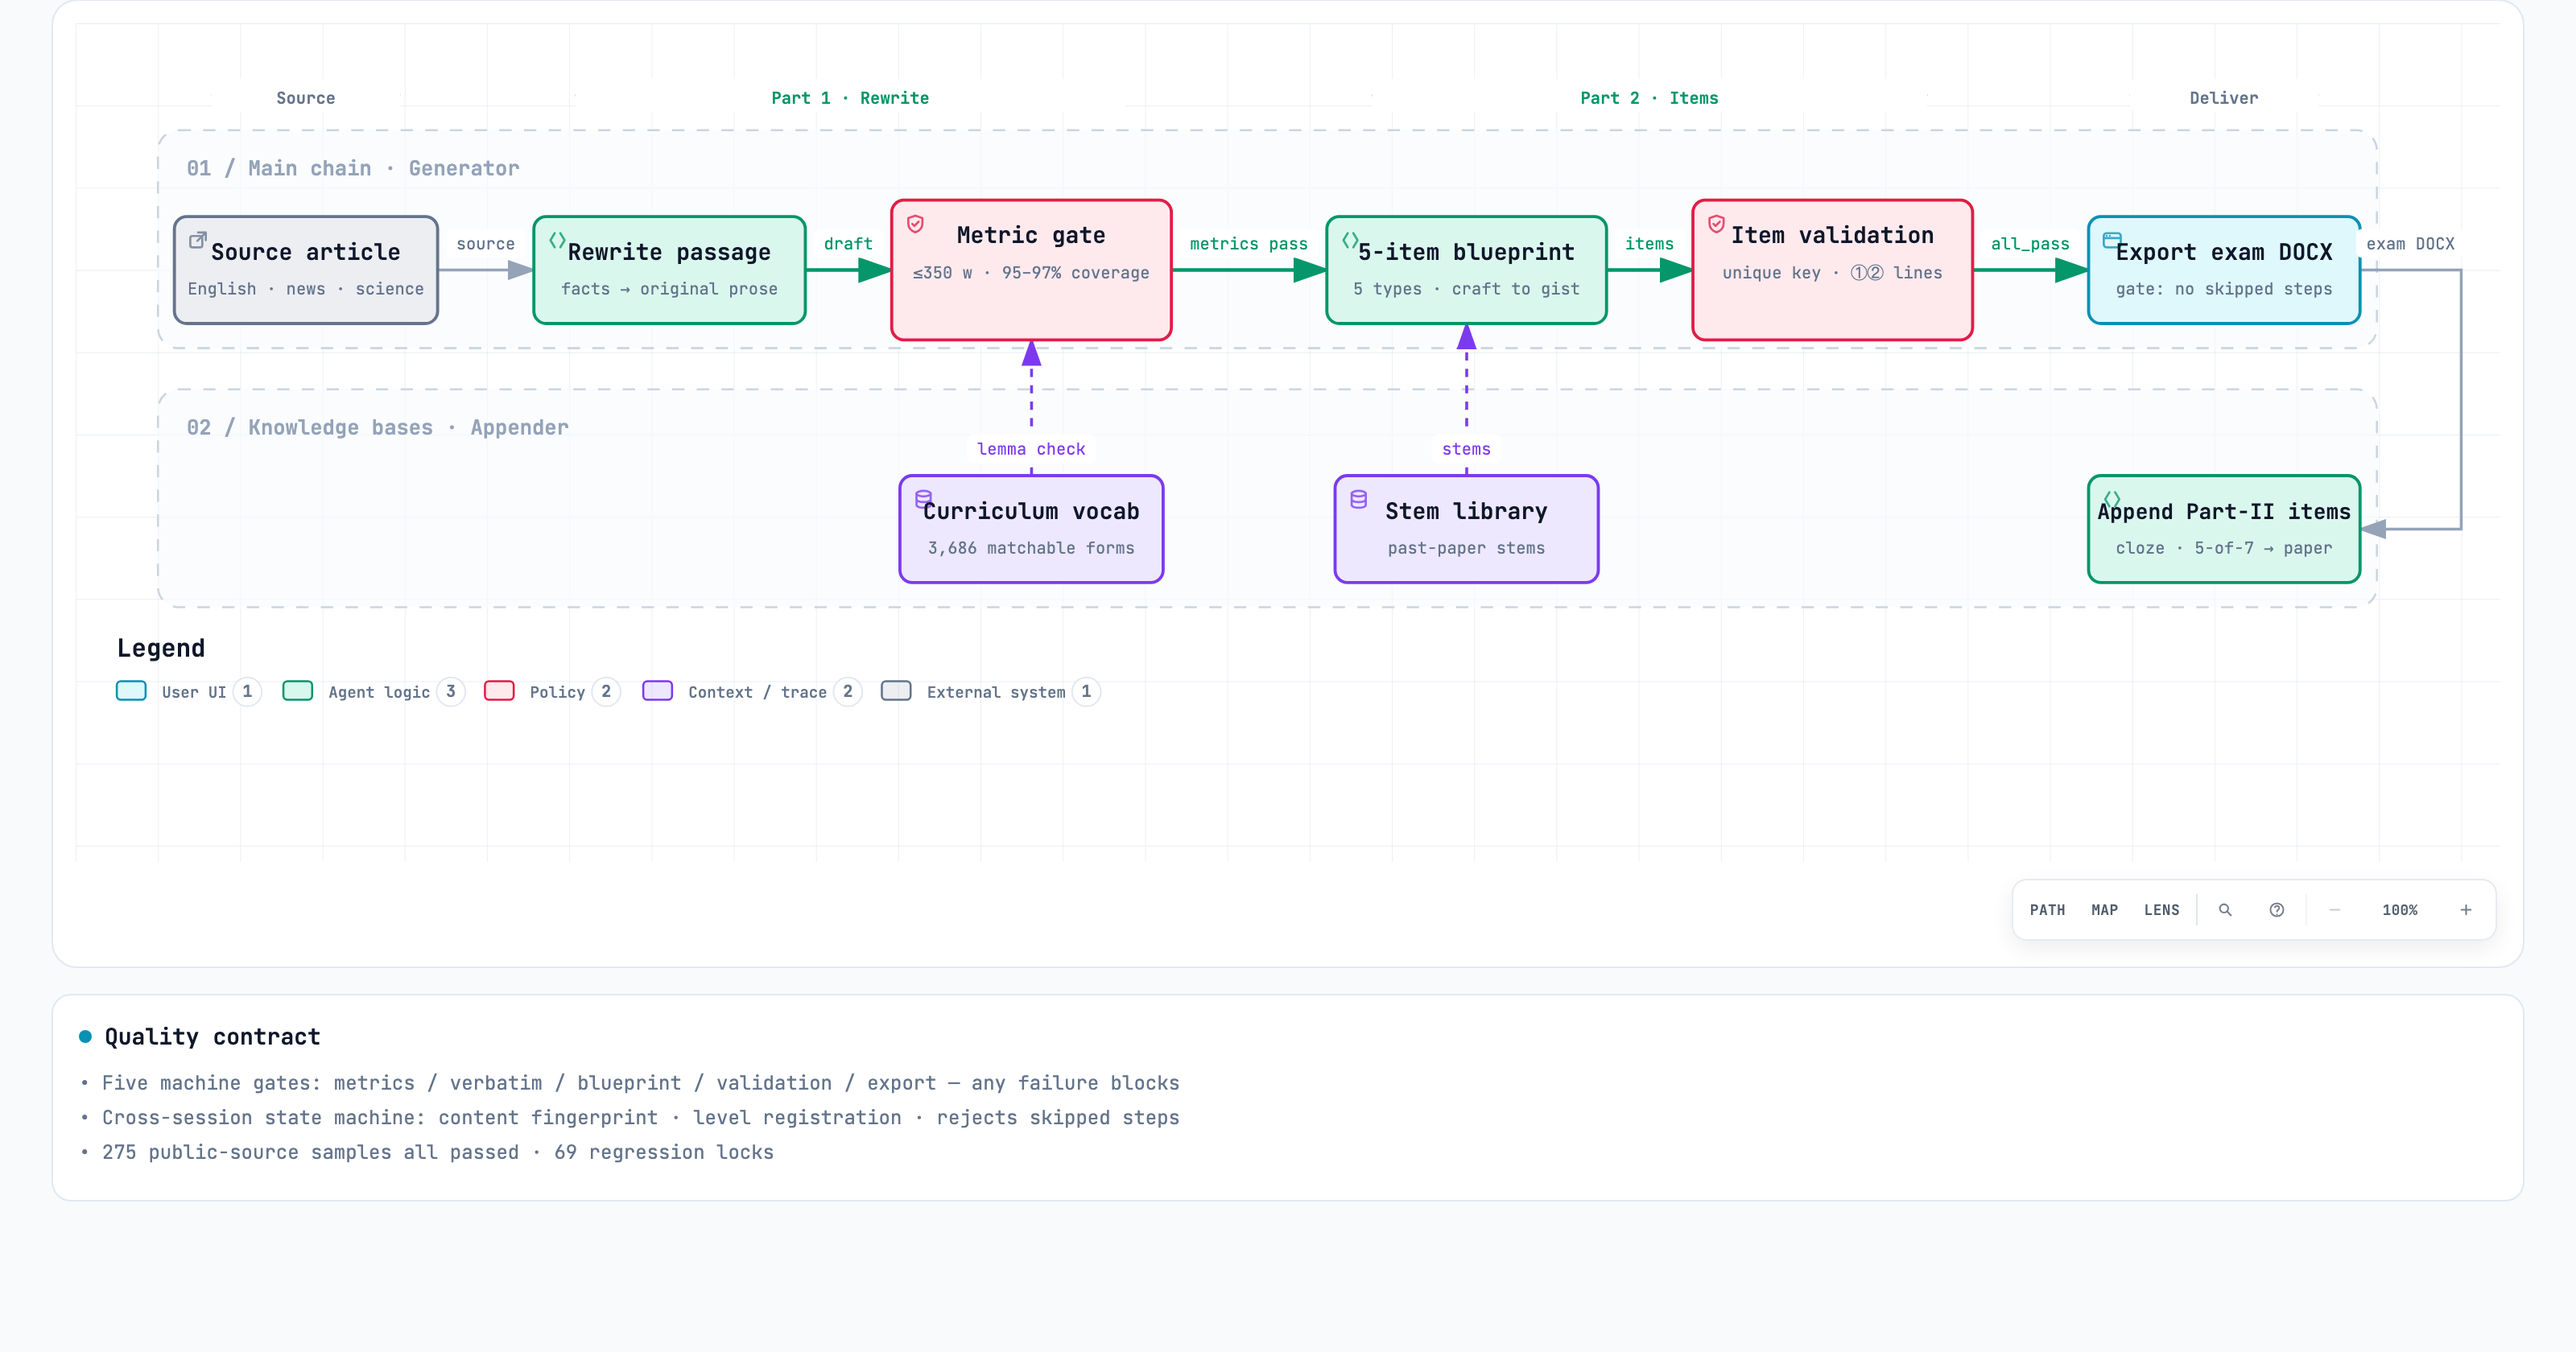
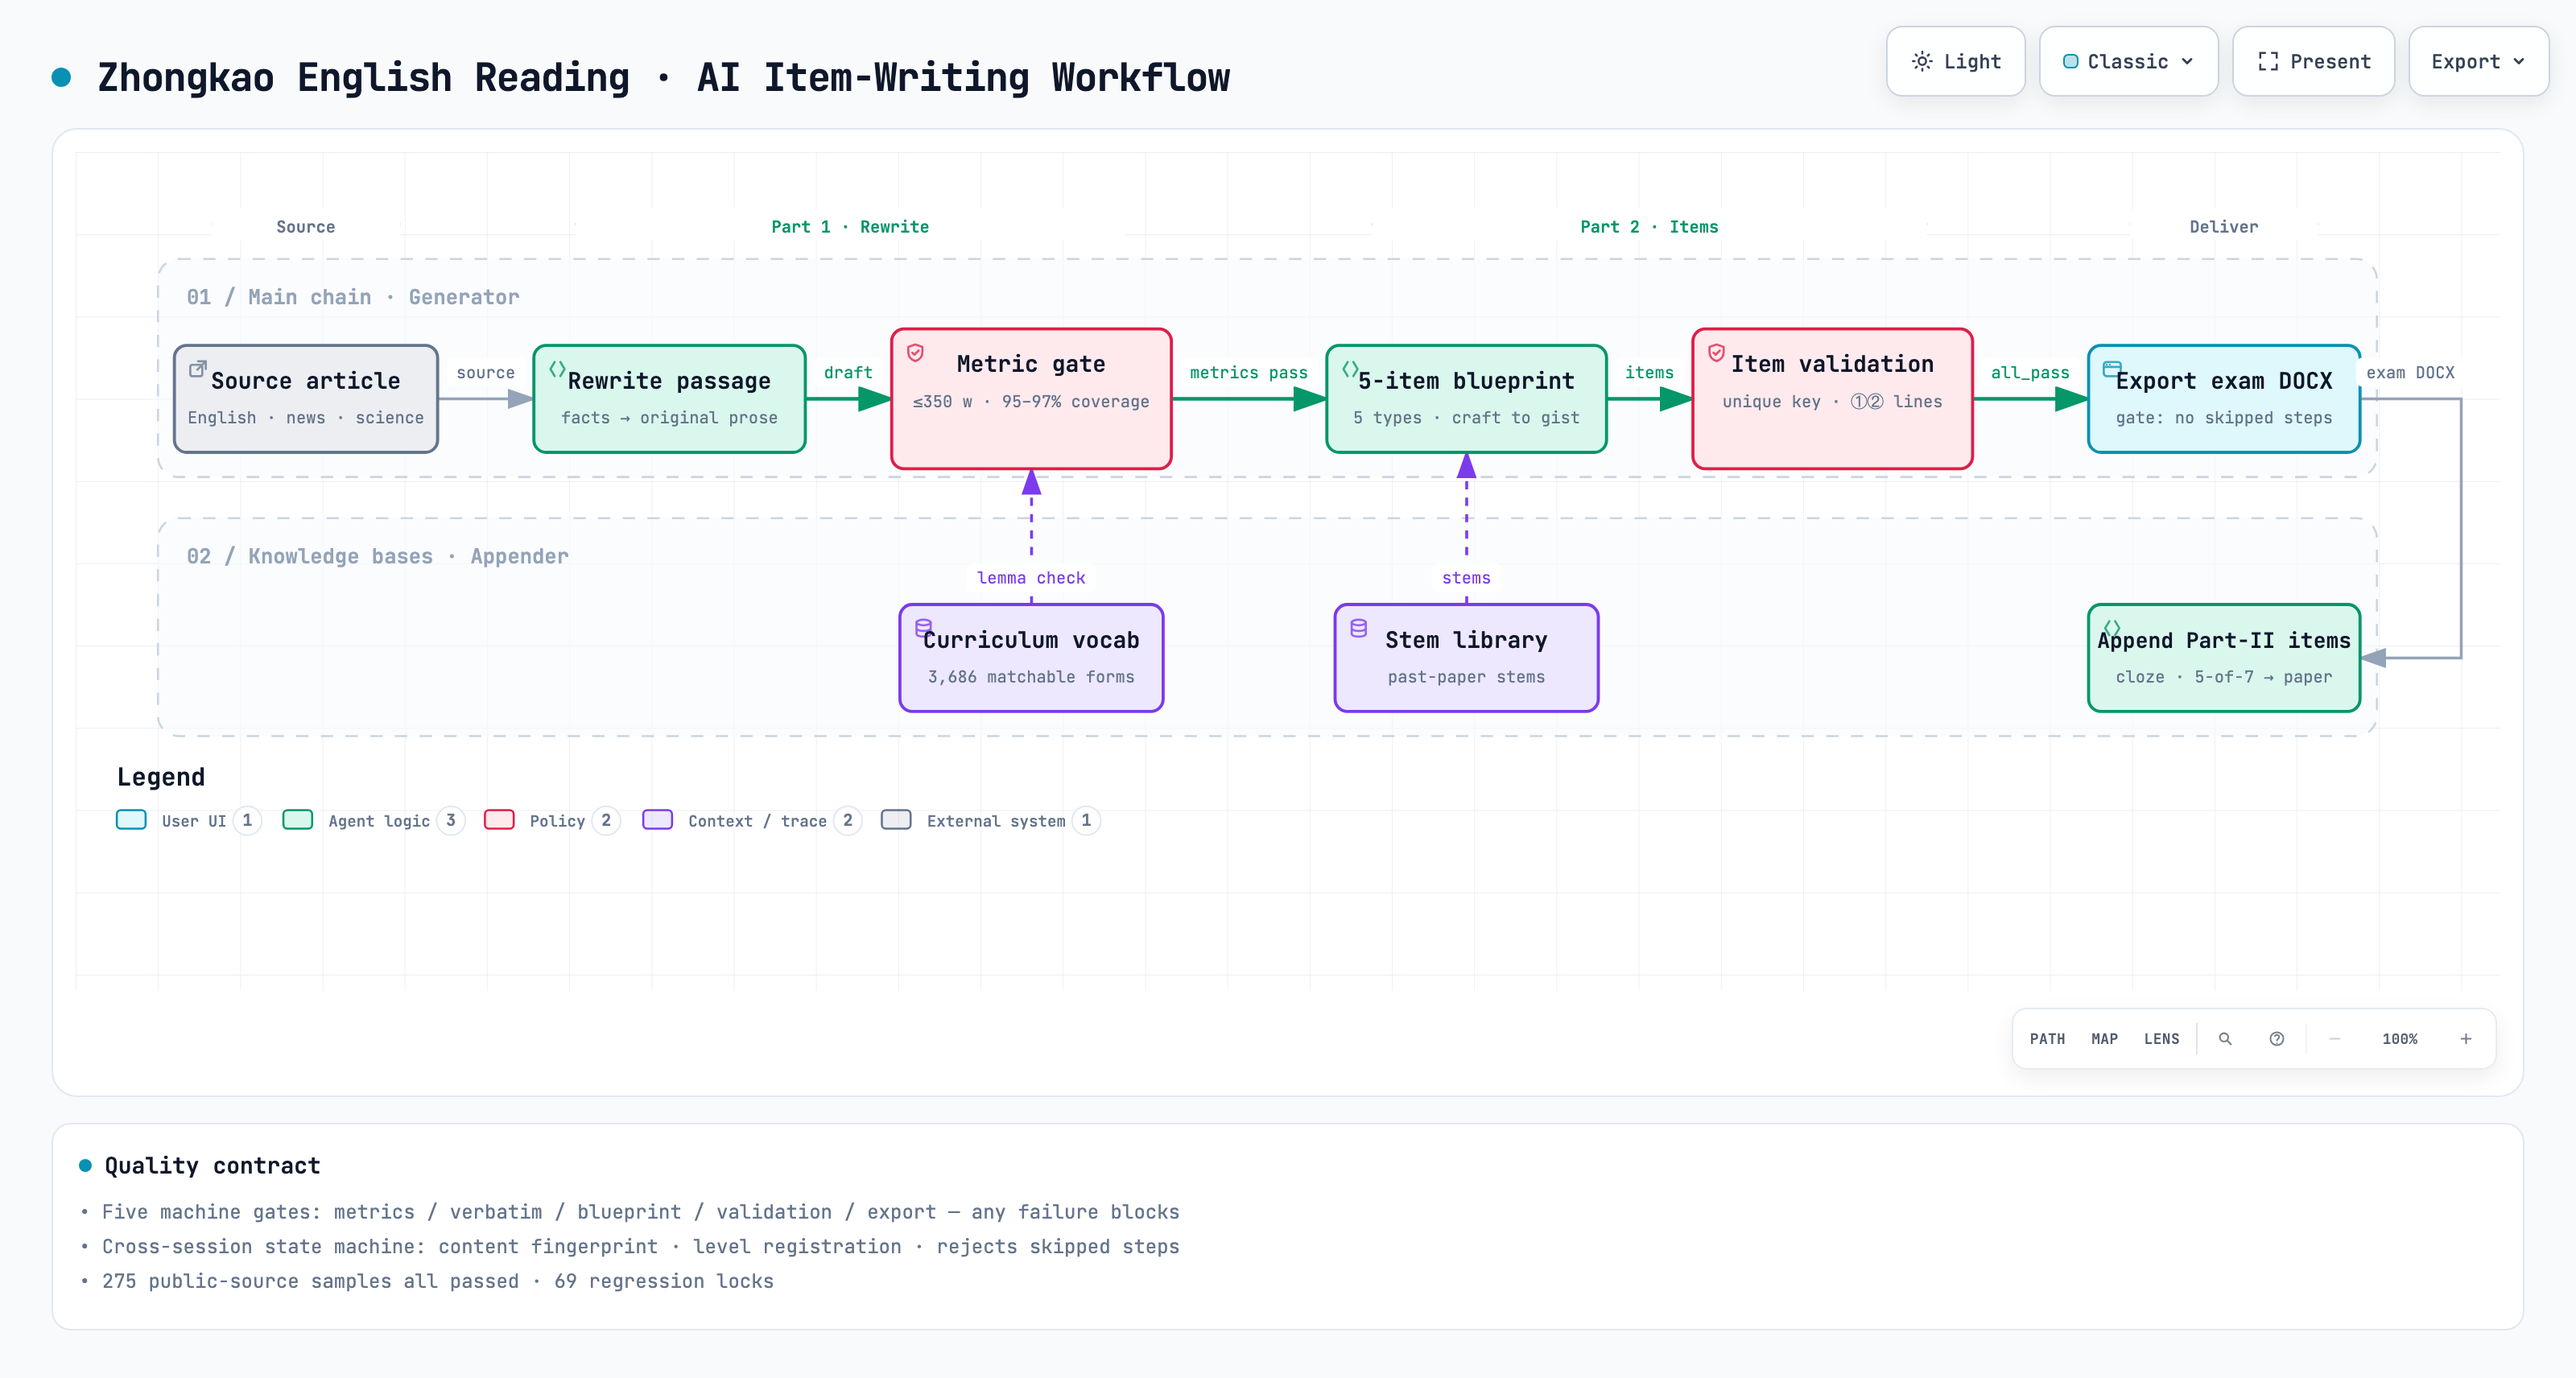
v1.1.4: docs: replace mermaid sketch with archify diagram in README workflow section; fix zh/en PNG crop (full title bar)

diff --git a/README.md b/README.md
@@ -29,20 +29,7 @@
 
 <p align="center"><img src="assets/workflow-zh.png" alt="中考英语阅读 AI 命题工作链工作流图" width="100%"></p>
 
-> 交互版（可缩放、追踪路径、切换明暗主题）：[中文](assets/workflow-zh.html) · [English](assets/workflow-en.html) —— 下载后用浏览器打开；图源规格见 `assets/workflow-*.json`（[archify](https://github.com/tt-a1i/archify) workflow v2）。
-
-```mermaid
-flowchart LR
-    A[英文文章<br/>新闻 / 科普 / 记叙文] --> B[① 生成工具]
-    B --> B1[文章改写<br/>词数 ≤350 · 课标词表核查]
-    B1 --> B2[五题蓝图<br/>写作手法/词义/推理/排序/主旨]
-    B2 --> C[② 追加工具]
-    C --> C1[二卷配套题型<br/>选词填空 · 7选5 · 语法填空 等]
-    C1 --> D[Word 成品<br/>排版 + Answer Key + 逐题解析]
-    B1 -.->|不达标| X1[check_passage 拦截]
-    B2 -.->|校验不过| X2[validate_questions 拦截]
-    D -.->|缺硬性步骤| X3[工作流门禁拒导]
-```
+> 英文版：[workflow-en.png](assets/workflow-en.png)。交互版（可缩放、追踪路径、切换明暗主题）：[中文](assets/workflow-zh.html) · [English](assets/workflow-en.html)，下载后用浏览器打开；图源规格见 `assets/workflow-*.json`（[archify](https://github.com/tt-a1i/archify) workflow v2）。
 
 ## 工具一览
 
